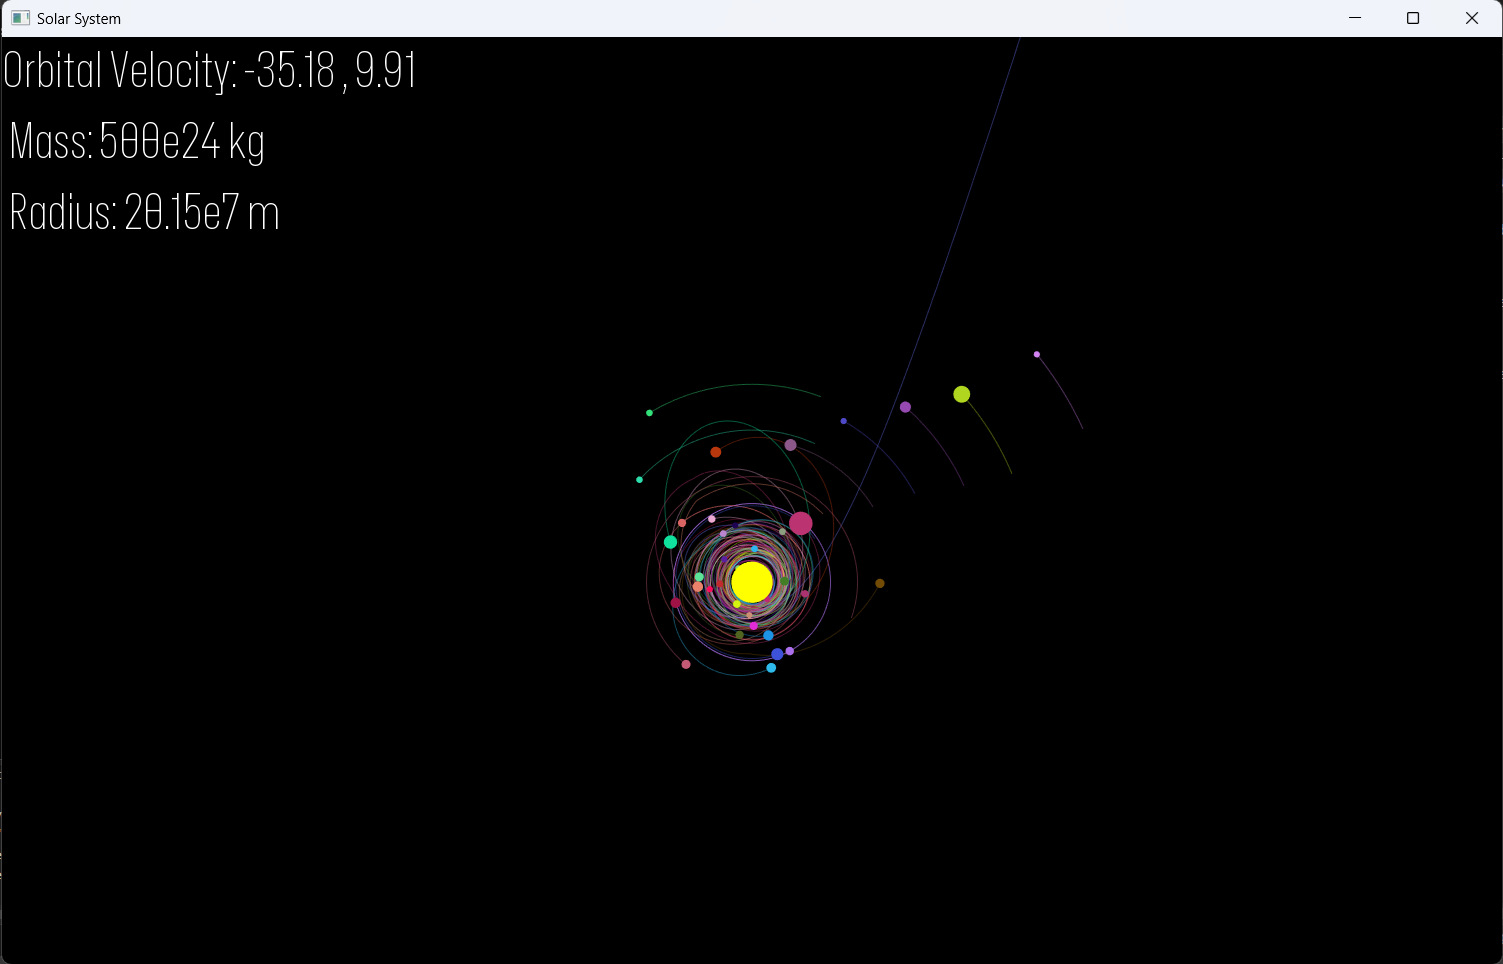
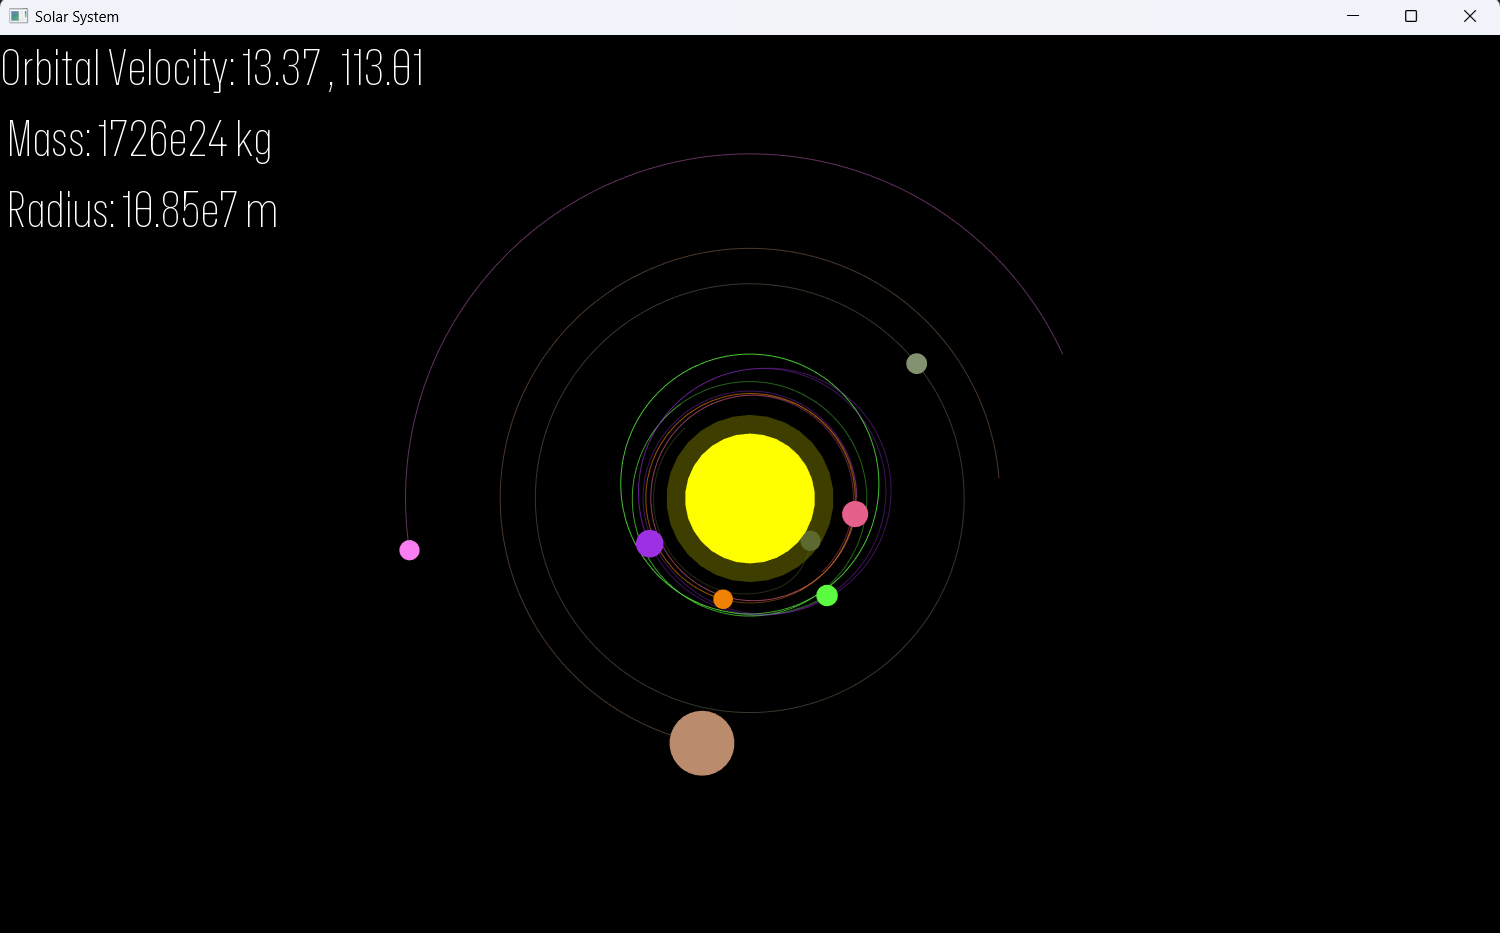
edited graphics

diff --git a/CosmoMetric-Simulator/Source.cpp b/CosmoMetric-Simulator/Source.cpp
@@ -29,6 +29,11 @@ int main()
     b2Fixture* fixture = star.body->GetFixtureList();
     fixture->SetSensor(true);
     std::vector<CelestialObject*> planets;
+
+    sf::CircleShape StarGravityField(StarGF);
+    StarGravityField.setFillColor(sf::Color(255, 255, 0, 62));
+    StarGravityField.setOrigin(StarGF, StarGF);
+    StarGravityField.setPosition(star.graphics.getPosition());
     int size = 0;
 
     bool applayForceBetweenPlanets = false;
@@ -104,10 +109,9 @@ int main()
 
             }
         }
-        b2Vec2 a;
-        if(size)
-         a = planets[0]->body->GetLinearVelocity();
+        
         world.Step(TIME_STEP, VELOCITY_ITERATIONS, POSITION_ITERATIONS);
+
         for (int i = 0; i < size; i++)
         {
             CelestialObject* temp = planets[i]; 
@@ -119,29 +123,16 @@ int main()
                     continue;
                 force += calcGForce(*temp->body, *planets[j]->body);
             }
+            float r = StarGF + planets[i]->graphics.getRadius();
+            // faking star Gravitational field
+            if (planets[i]->distanceBetween(&star) < r)
+            {
+                force = 2 * force;
+            }
             temp->applyForce(force);
             temp->updateGrapicsPos();
         }
-        if (size)
-        a -= planets[0]->body->GetLinearVelocity();
-        printf("x = %f\n y= %f\n----------\n",a.x,a.y);
-        window.clear();
-        window.setView(view);
-        //orbit trail
-        for (int i = 0; i < size; i++)
-        {
-            CelestialObject* temp = planets[i];
-            temp->orbitPoints.push_back(temp->graphics.getPosition());
-            sf::VertexArray orbit(sf::LineStrip, temp->orbitPoints.size());
-            for (int j = 0; j < temp->orbitPoints.size(); j++)
-            {
-                orbit[j].position = temp->orbitPoints[j];
-                sf::Color trailColor = temp->graphics.getFillColor();
-                orbit[j].color = sf::Color(trailColor.r, trailColor.g, trailColor.b, 100);
-            }
-            window.draw(orbit);
-        }
-        // detect if swallowed by sun
+        // detect if swallowed by the star
         for (int i = 0; i < size; i++)
         {
             float r = star.graphics.getRadius() - planets[i]->graphics.getRadius();
@@ -154,14 +145,33 @@ int main()
                 printf("Planet Vanished\n");
             }
         }
-        for (int i = 0; i < size; i++)
+        window.clear();
+        window.setView(view);
+        //draw
         {
-            window.draw(planets[i]->graphics);
-        }
-        //printing data
-        window.draw(star.graphics);
-        window.setView(window.getDefaultView());
-        if (size)
+            window.draw(StarGravityField);
+            //orbit trail
+            for (int i = 0; i < size; i++)
+            {
+                CelestialObject* temp = planets[i];
+                temp->orbitPoints.push_back(temp->graphics.getPosition());
+                sf::VertexArray orbit(sf::LineStrip, temp->orbitPoints.size());
+                for (int j = 0; j < temp->orbitPoints.size(); j++)
+                {
+                    orbit[j].position = temp->orbitPoints[j];
+                    sf::Color trailColor = temp->graphics.getFillColor();
+                    orbit[j].color = sf::Color(trailColor.r, trailColor.g, trailColor.b, 100);
+                }
+                window.draw(orbit);
+            }
+            for (int i = 0; i < size; i++)
+            {
+                window.draw(planets[i]->graphics);
+            }
+            window.draw(star.graphics);
+            //printing data
+            window.setView(window.getDefaultView());
+            if (size)
             {
                 // to make texts more redable
                 oss << std::fixed << std::setprecision(2) << planets[size - 1]->getVelocity().x;
@@ -178,10 +188,11 @@ int main()
                 oss.clear();
 
                 text.setString("Orbital Velocity: " + vX + " , " + vY
-                   + "\n Mass: " + std::to_string(int(planets[size - 1]->getMass()/1e24)) + "e24 kg"
-                   + "\n Radius: " + r + "e7 m");
+                    + "\n Mass: " + std::to_string(int(planets[size - 1]->getMass() / 1e24)) + "e24 kg"
+                    + "\n Radius: " + r + "e7 m");
                 window.draw(text);
             }
+        }
         window.display();
     }
 

diff --git a/CosmoMetric-Simulator/AppCofij.h b/CosmoMetric-Simulator/AppCofij.h
@@ -17,6 +17,7 @@ const float R_SCALE = 1; // only affect visualization
 //sun radius 696265000 m
 const float StarMass = 1.9891e30;
 const float StarRadius = 69.6265 * R_SCALE;
+const float StarGF = StarRadius +20; // +r star exerts more force in this field
 // * 1.e24
 const float MAX_MASS = 1898;
 const float MIN_MASS = 0.0130;

diff --git a/README.md b/README.md
@@ -1,2 +1,8 @@
-# CosmoMetric-Simulator
+# StarSystem-Simulator
  applying Gravitional force using box2d
+
+ -Click any where on screen to create random planet
+ -planets vanish when they are completly swallowed by the star
+ -use arrow key to move in the view 
+ -use mouse wheel to zoom in and out 
+![](https://github.com/MAthabet/CosmoMetric-Simulator/blob/main/window.png)
